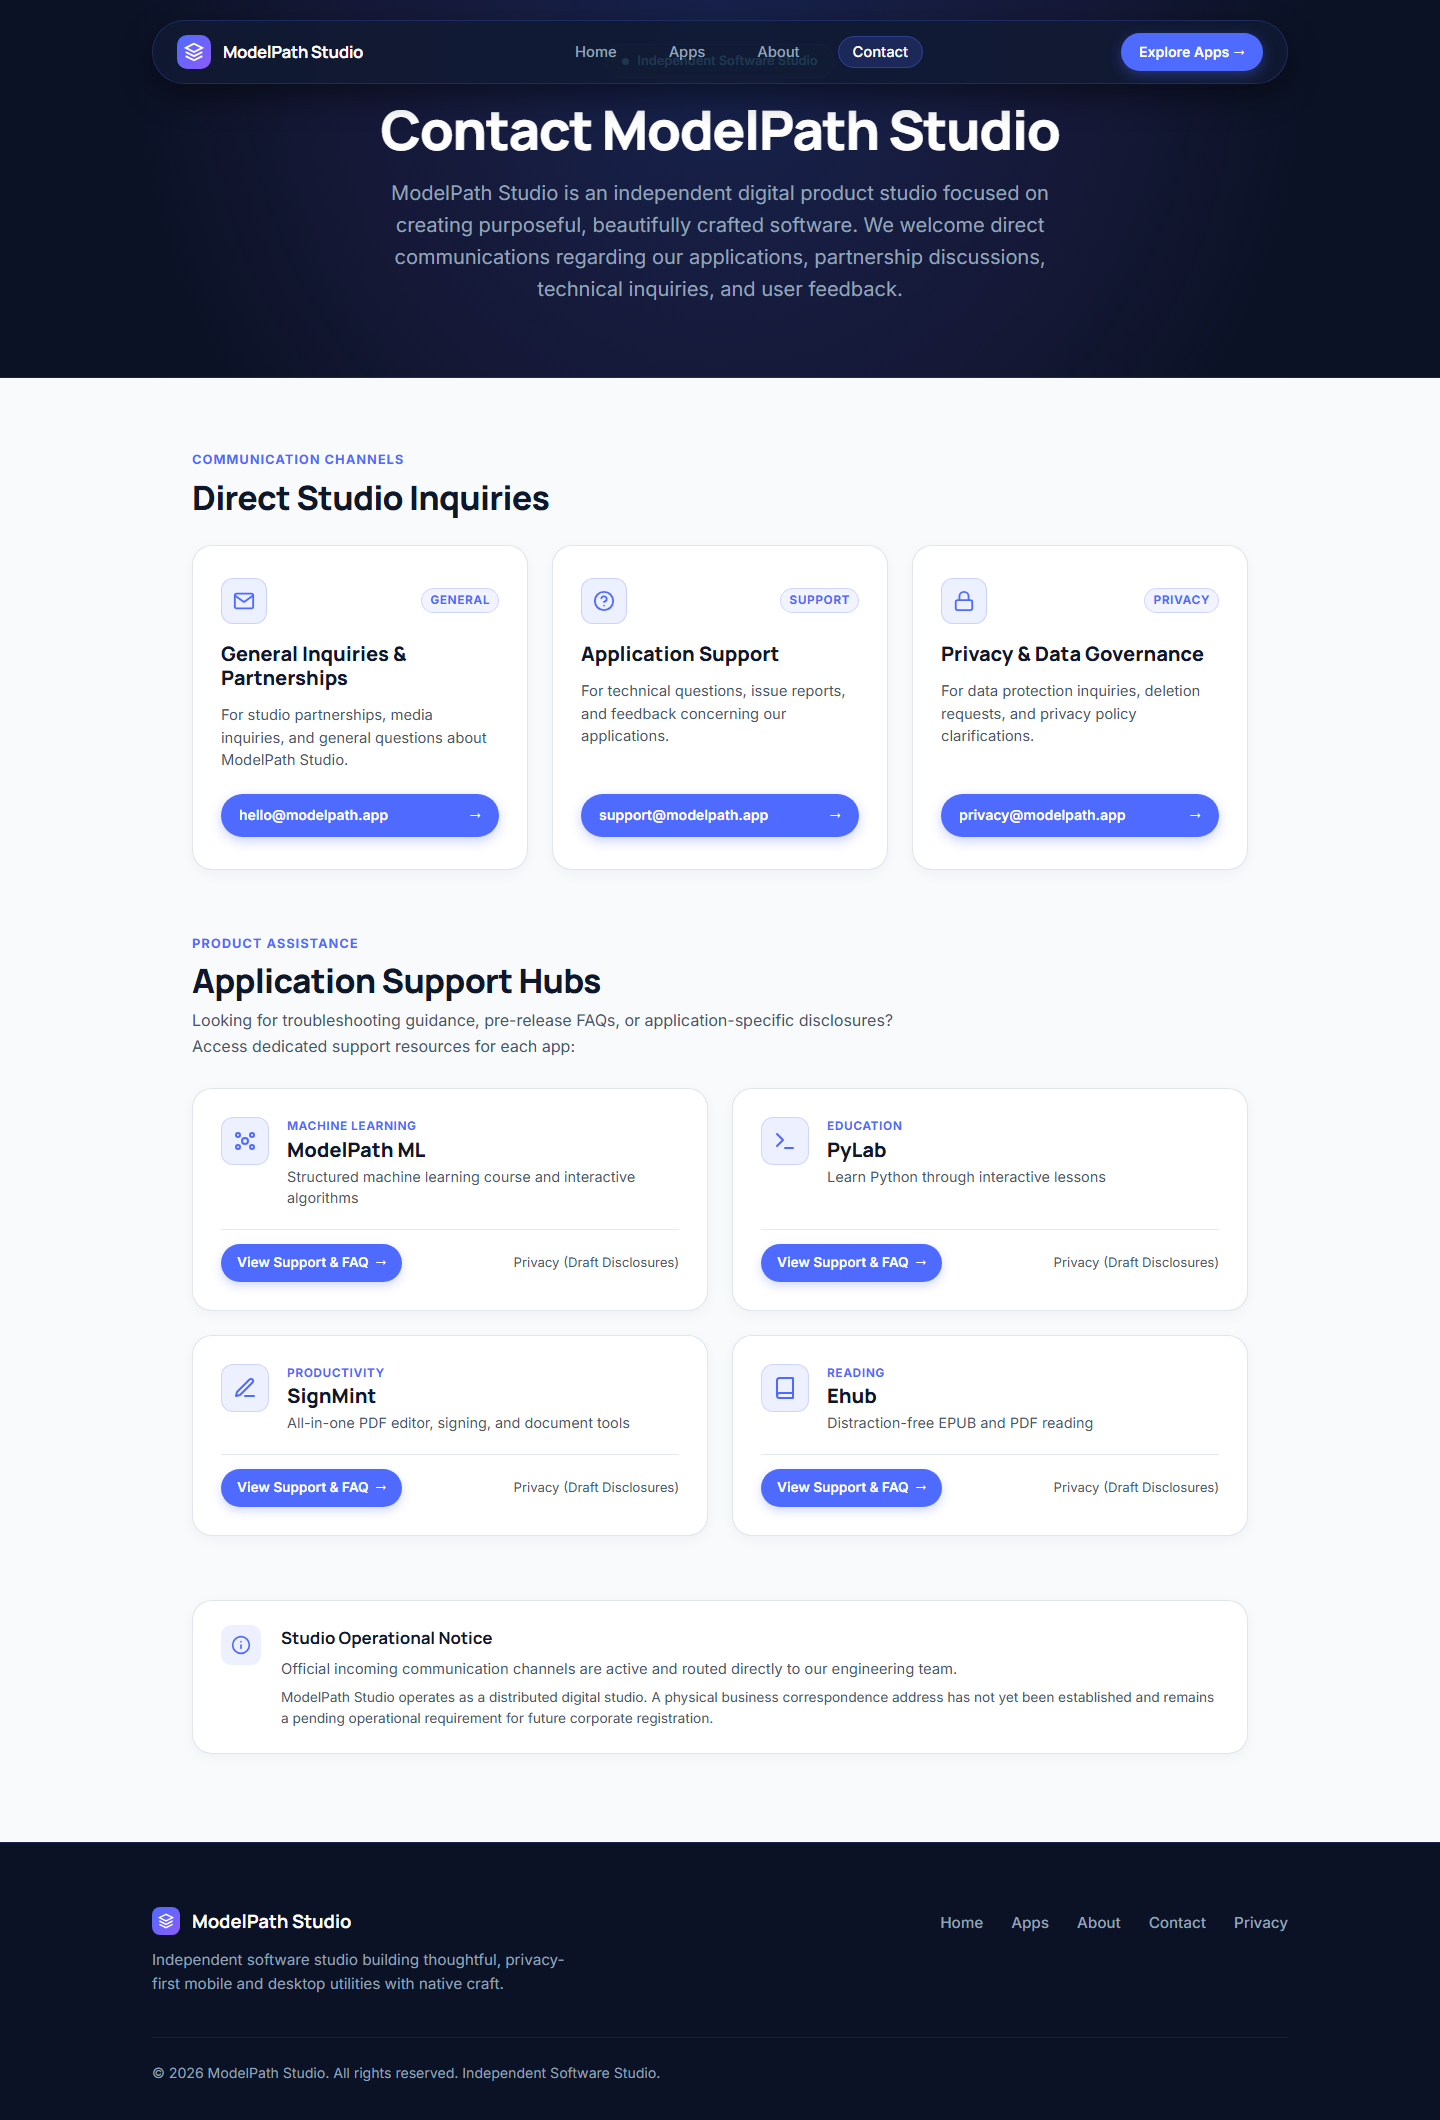
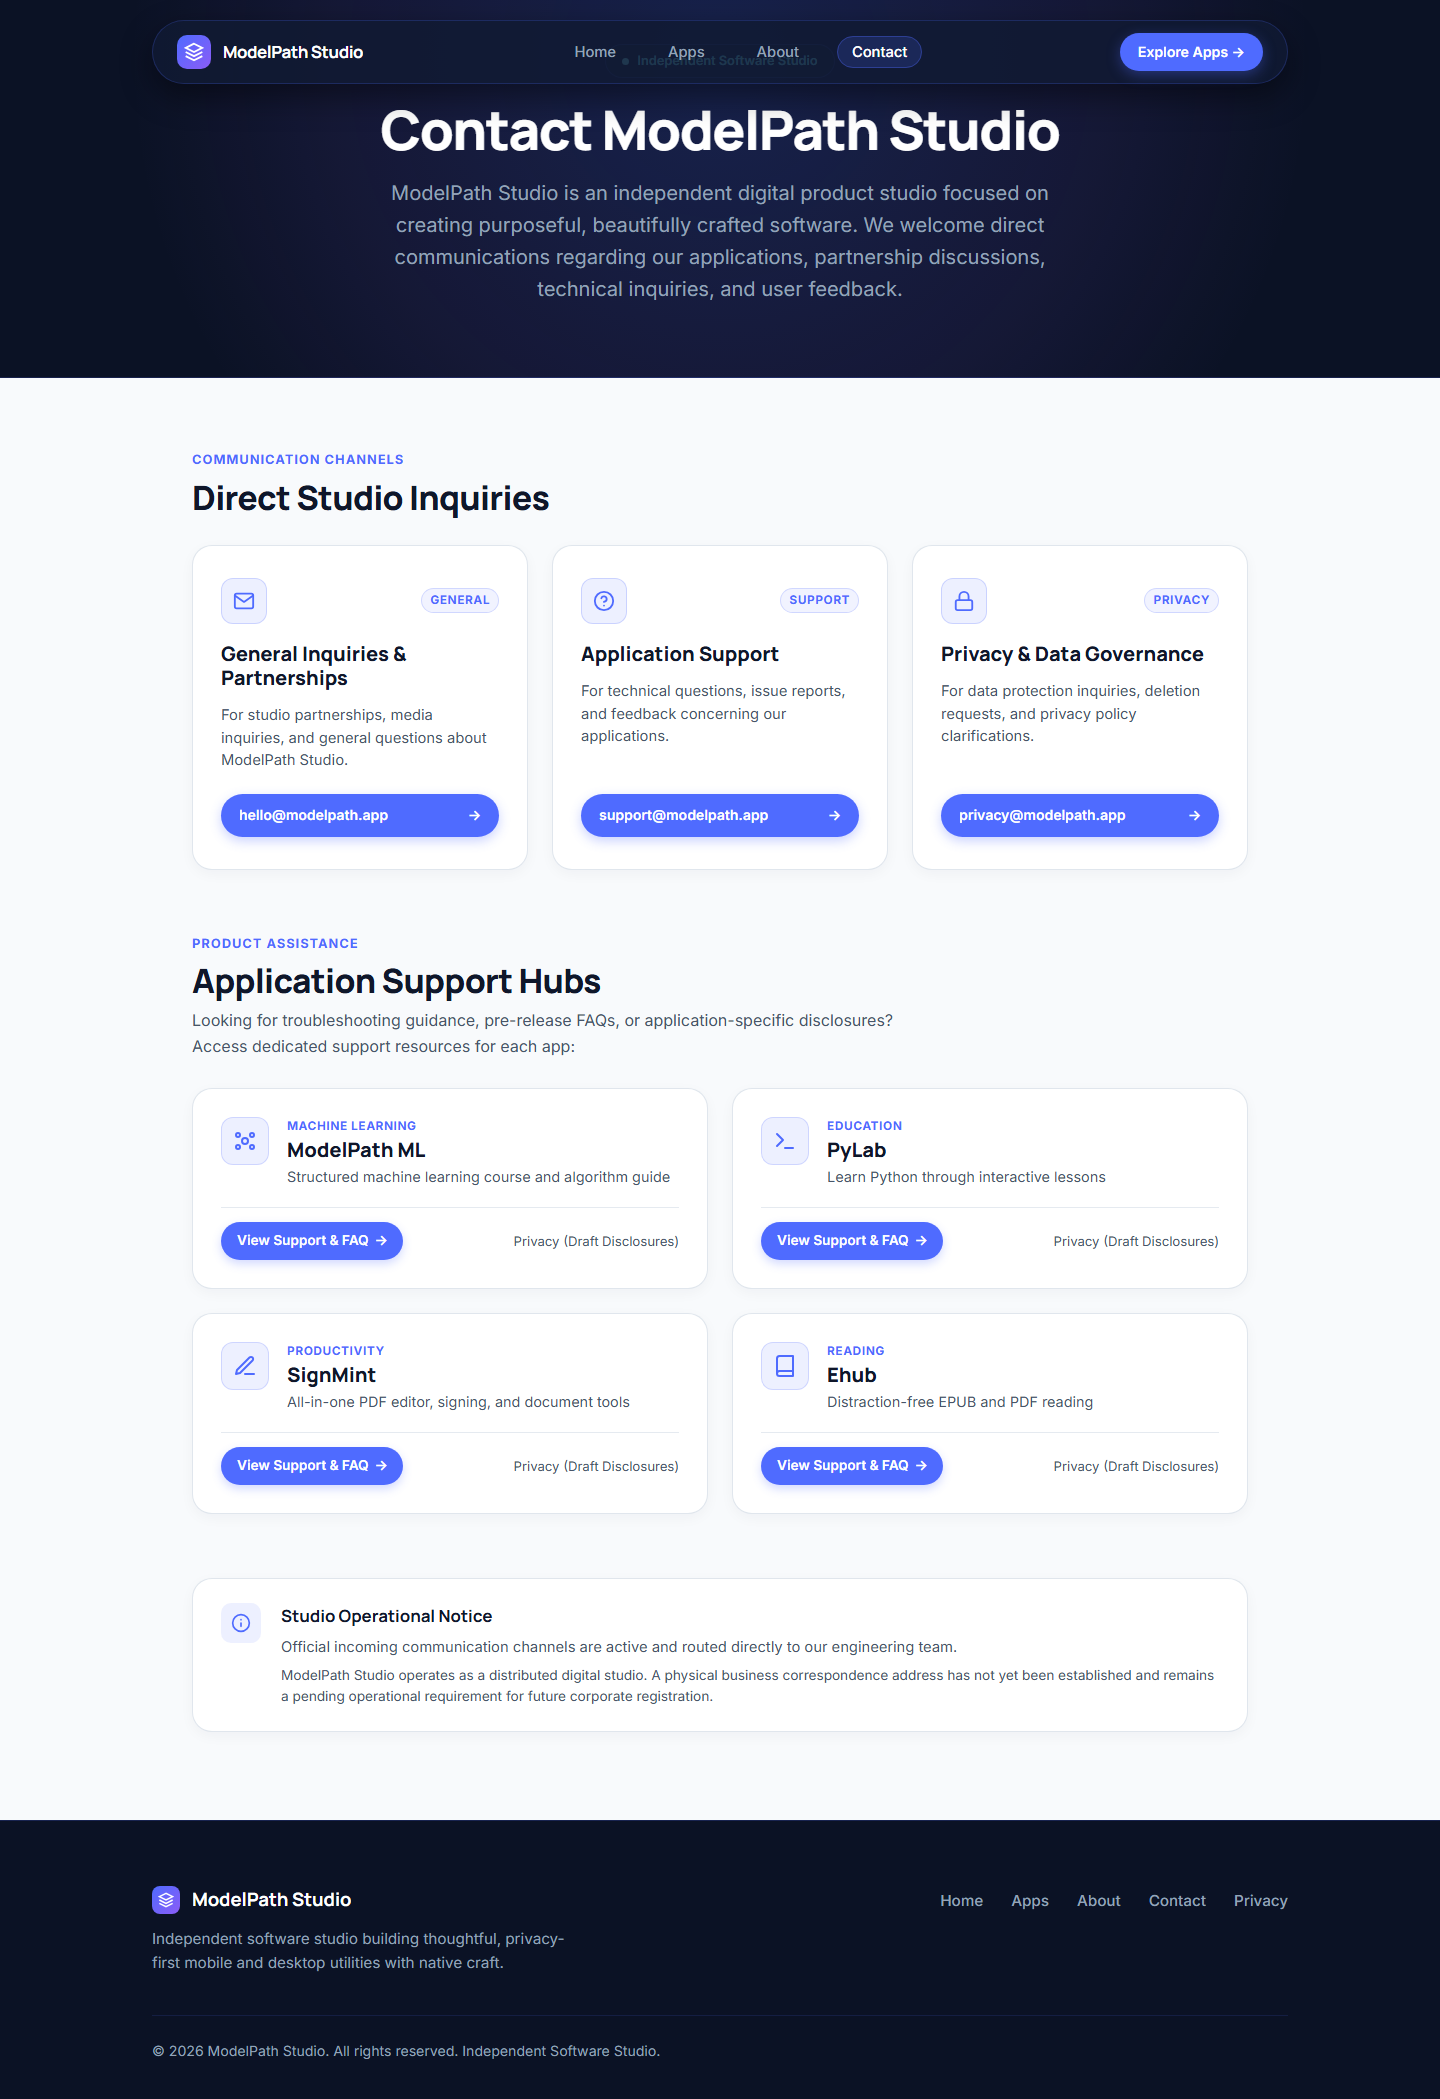
fix(gate-13): apply conditional approval corrections
- Aligned ModelPath ML public description with verified store listing while avoiding unevidenced feature claims (quizzes, runnable snippets, progress tracking)
- Maintained ModelPath ML as studio display name and preserved verified Play Store link
- Removed response-time promise from support communication channel
- Removed duplicate Manrope variable font binary while preserving working WOFF2 configuration and licenses
- Confirmed draft privacy policy safeguards, canonical app order, and app-ads.txt integrity
- Updated verification screenshots and passed npm run check and npm run build

diff --git a/src/content/apps/modelpath-ml.md b/src/content/apps/modelpath-ml.md
@@ -1,8 +1,8 @@
 ---
 name: "ModelPath ML"
 slug: "modelpath-ml"
-tagline: "Structured machine learning course and interactive algorithms"
-description: "Master core machine learning concepts through clear lessons, step-by-step algorithm walkthroughs, practical Python examples, and interactive quizzes on Android."
+tagline: "Structured machine learning course and algorithm guide"
+description: "Learn core machine learning concepts through structured lessons, step-by-step algorithm explanations, and practical Python code examples on Android."
 category: "Machine Learning"
 availablePlatforms:
   - "android"
@@ -21,29 +21,29 @@ screenshots:
     alt: "ModelPath ML course curriculum overview and topic navigation"
     caption: "Structured Course Curriculum & Fundamentals"
   - src: "/images/apps/modelpath-ml/screenshot-2.png"
-    alt: "ModelPath ML interactive algorithm explanation and theory"
-    caption: "Step-by-Step Algorithm Walkthroughs"
+    alt: "ModelPath ML algorithm explanation and theory"
+    caption: "Step-by-Step Algorithm Explanations"
   - src: "/images/apps/modelpath-ml/screenshot-3.png"
-    alt: "ModelPath ML practical Python implementation and code examples"
-    caption: "Practical Python Code & Implementation"
+    alt: "ModelPath ML Python implementation and code examples"
+    caption: "Python Code Examples & Reference"
   - src: "/images/apps/modelpath-ml/screenshot-4.png"
-    alt: "ModelPath ML interactive quizzes and knowledge checkpoints"
-    caption: "Interactive Quizzes & Concept Checks"
+    alt: "ModelPath ML topic reference and study resources"
+    caption: "Algorithm Guides & Concept Reference"
 features:
   - title: "Core ML Fundamentals"
-    description: "Understand foundational machine-learning principles, supervised and unsupervised paradigms, and core data workflows."
+    description: "Understand foundational machine-learning principles, supervised and unsupervised paradigms, and core terminology."
     icon: "performance"
     status: "available"
   - title: "Step-by-Step Algorithms"
-    description: "Explore linear and logistic regression, decision trees, random forests, KNN, SVM, and K-means clustering with visual breakdowns."
+    description: "Explore linear regression, logistic regression, decision trees, random forests, KNN, SVM, and K-means clustering in plain language."
     icon: "document"
     status: "available"
-  - title: "Practical Python Examples"
-    description: "Learn hands-on algorithm implementation with clean, annotated Python code snippets and practical comparison tools."
+  - title: "Python Code Examples"
+    description: "Study clear, annotated Python code implementations for core machine learning algorithms."
     icon: "pen"
     status: "available"
-  - title: "Quizzes & Project Exercises"
-    description: "Test your understanding through interactive quizzes, model selection guides, and structured learning checkpoints."
+  - title: "Model Selection & Reference"
+    description: "Access algorithm comparison concepts, model selection guidance, and structured study references."
     icon: "privacy"
     status: "available"
 playStoreUrl: "https://play.google.com/store/apps/details?id=np.com.deepndra.machinelearningalgorithm"
@@ -56,14 +56,14 @@ privacyDisclosures:
     - "No account registration or personal identity information required."
     - "Google Mobile Ads (AdMob) may process standard device identifiers and advertising diagnostic data in accordance with Google's Privacy Policy."
   dataUsage:
-    - "Local progress tracking, quiz completion state, and in-app study resource access."
+    - "Local application settings and in-app educational reference access."
     - "Ad serving and diagnostic telemetry handled via Google Play services."
-  storageAndRetention: "Course progress and settings are stored locally on your device. ModelPath Studio operates no cloud database storing your individual study history."
+  storageAndRetention: "Application preferences and settings are stored locally on your device. ModelPath Studio operates no cloud database storing individual user records."
   advertising: "Third-party banner and interstitial advertisements are delivered via Google Mobile Ads SDK (AdMob)."
   permissions:
     - "Network access (INTERNET, ACCESS_NETWORK_STATE) for loading ad creatives and checking connectivity."
   securityPractices: "Application executes strictly within standard Android OS sandboxing safeguards."
-  dataDeletion: "Uninstalling the app or clearing application storage immediately removes all locally cached course progress."
+  dataDeletion: "Uninstalling the app or clearing application storage immediately removes all locally cached application settings."
   contactEmail: "privacy@modelpath.app"
 supportEmail: "support@modelpath.app"
 supportFaqs:
@@ -77,6 +77,6 @@ version: "1.0.0"
 order: 1
 ---
 
-ModelPath ML (published on Google Play as *Machine Learning: ModelPath*) is a structured learning application designed to help learners master machine learning from the ground up.
+ModelPath ML (published on Google Play as *Machine Learning: ModelPath*) is a structured learning application designed to help beginners explore machine learning from scratch.
 
-From supervised algorithms like linear regression and random forests to unsupervised techniques like K-means clustering, each topic provides concise theory, intuitive visualizations, and runnable Python examples. Interactive quizzes reinforce retention at every milestone.
+From supervised algorithms like linear regression and random forests to unsupervised techniques like K-means clustering, the curriculum covers essential theory, algorithm explanations in plain language, and Python code references for mobile learners.
